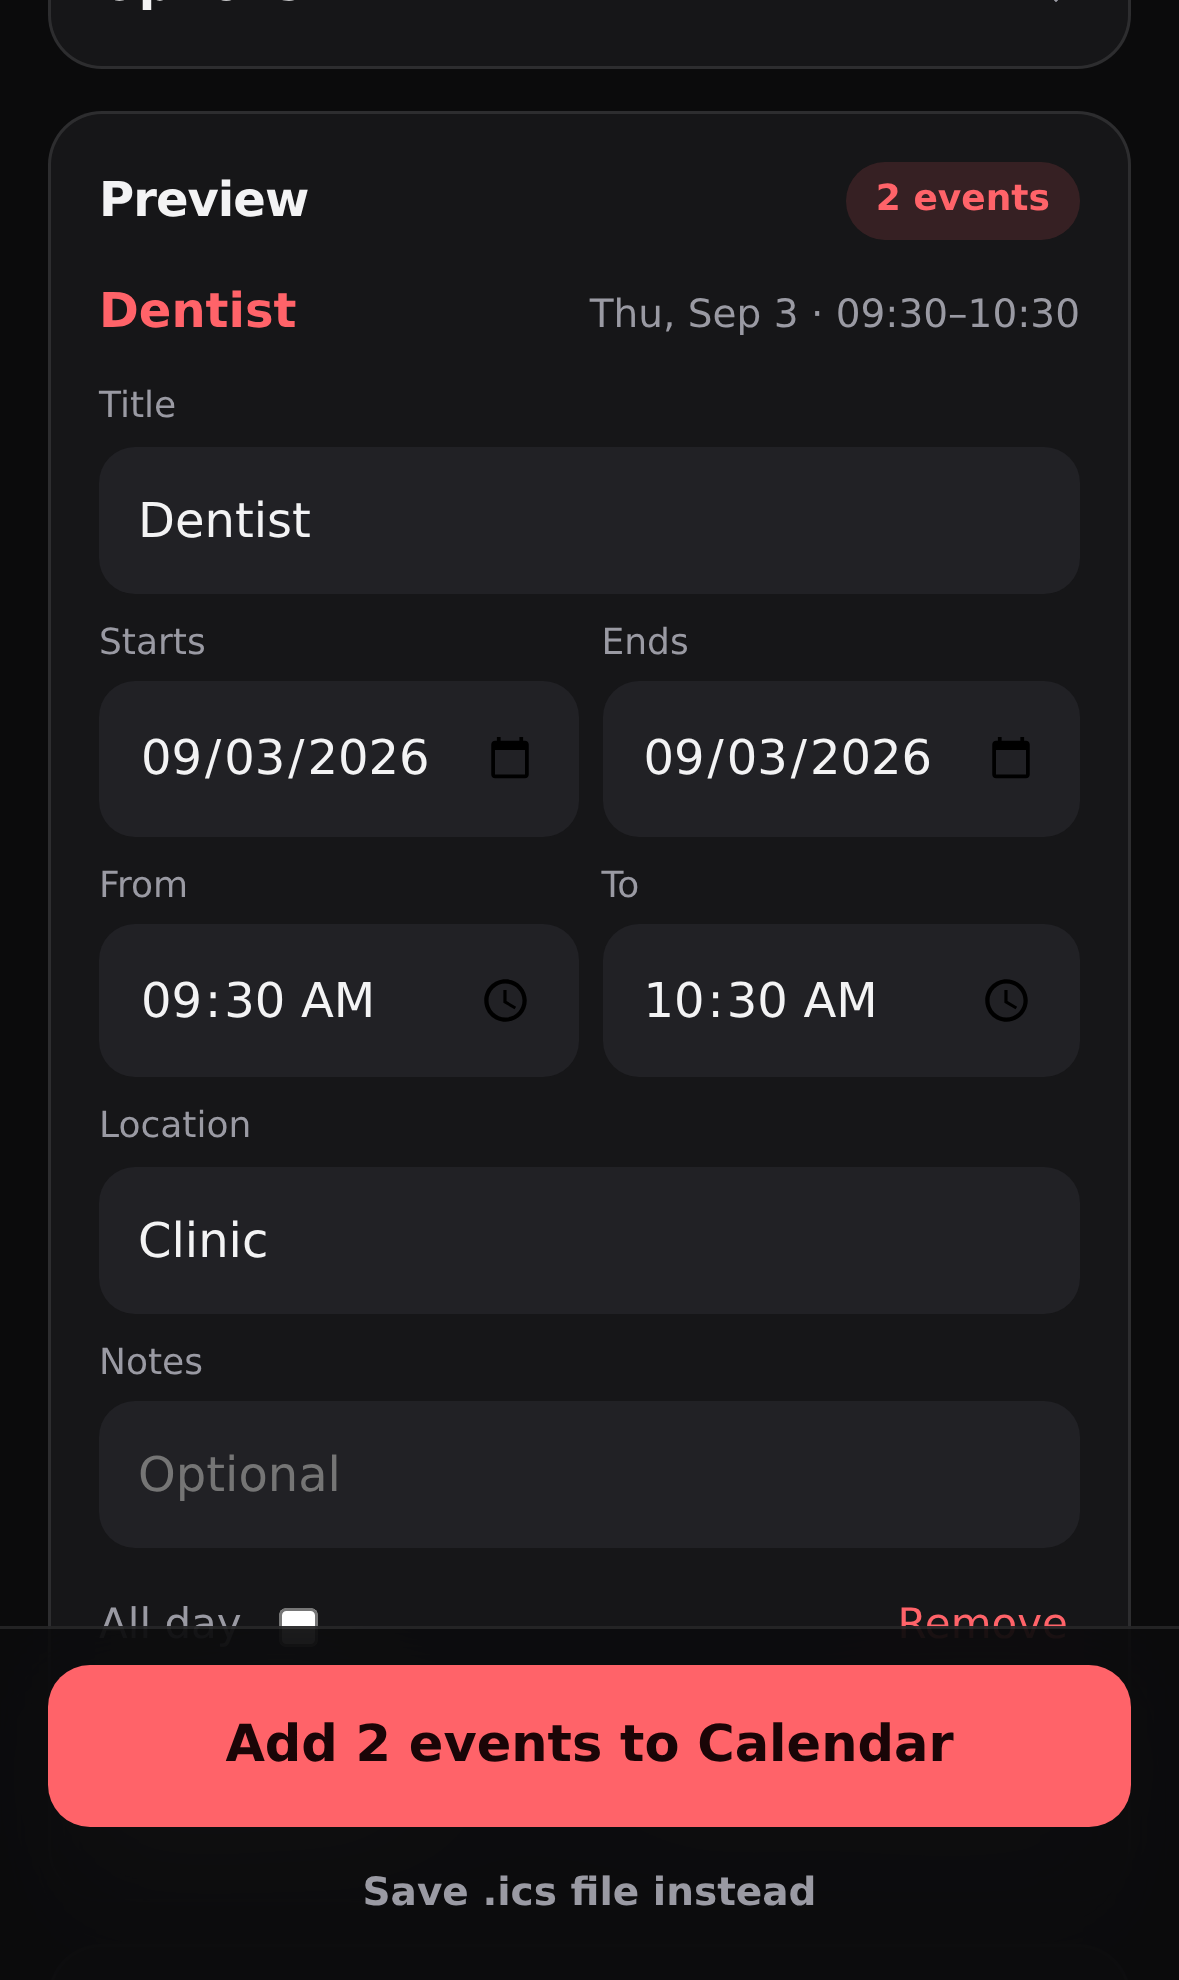
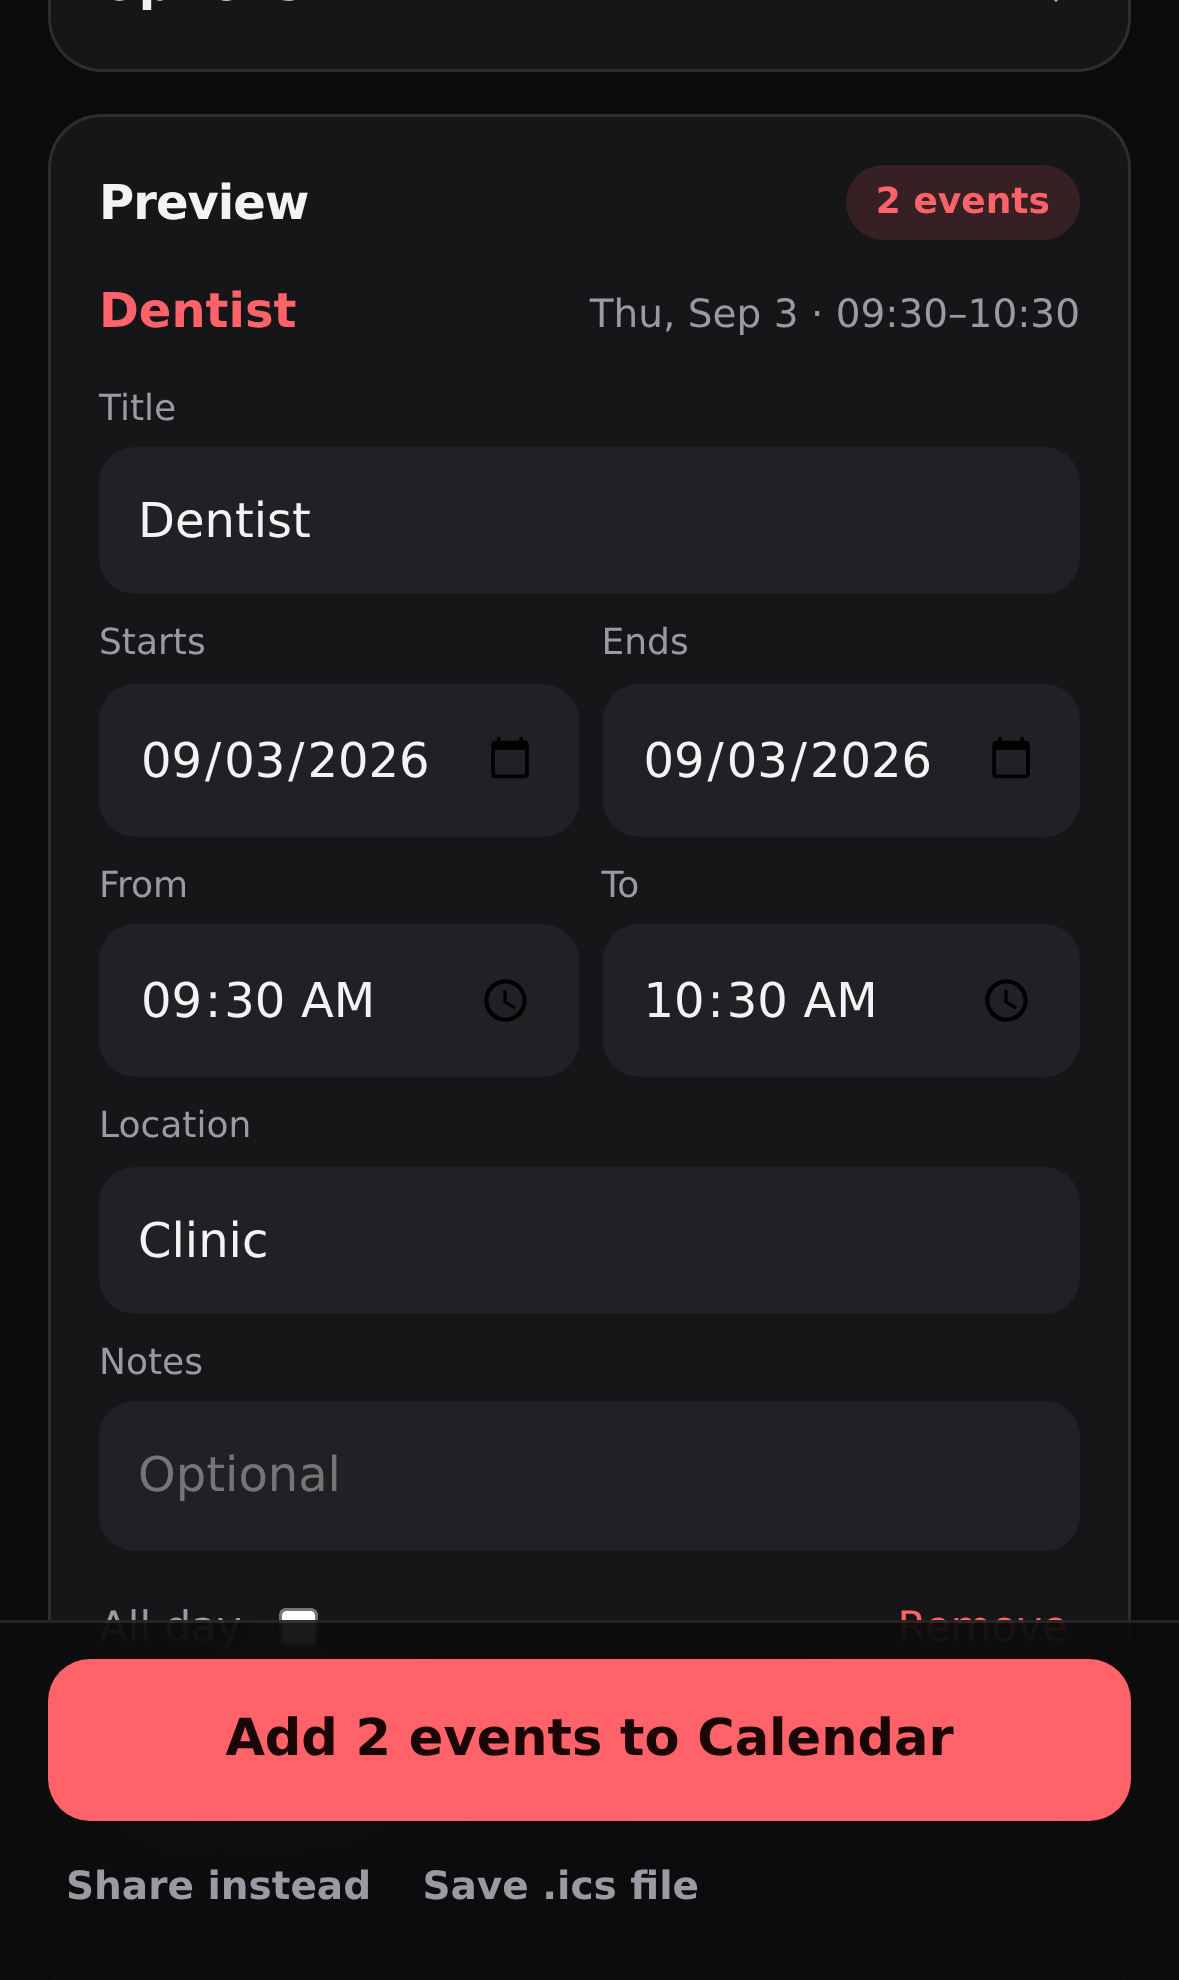
Hand the calendar file to iOS as a response, not a saved file
Tapping a saved .ics in Files only ever opens a preview — iOS offers no
import action there. What it does act on is a response whose
Content-Type is text/calendar, so the file now goes out that way:

- The page stages the current batch in an OUTBOX cache under a URL
  named after the chosen calendar, restaging whenever the preview or
  the calendar changes, with the writes queued so an overlapping
  staging cannot leave a stale batch behind.
- The service worker answers any .ics request from that cache with
  Content-Type: text/calendar.
- "Add to Calendar" is now an ordinary link to that URL, opening
  outside the installed app so Safari performs the hand-off. Being a
  link, it also cannot be caught by popup blocking.
- Share and Save move underneath as fallbacks, and a help section
  explains what each one does — including that a saved file is a dead
  end on iOS.
- The first load has no worker yet, so the button falls back to the
  share sheet until one is controlling the page.

METHOD:PUBLISH is dropped from the file: it marks a calendar feed, and
some importers treat it differently from a plain list of events.

Claude-Session: https://claude.ai/code/session_01HNhjKiH9bVPzuXmCti7oSX

diff --git a/assets/app.js b/assets/app.js
@@ -18,7 +18,7 @@ const el = {
   alarm: $('alarm'), rollForward: $('roll-forward'),
   previewCard: $('preview-card'), list: $('event-list'), count: $('event-count'),
   skipped: $('skipped'), skippedList: $('skipped-list'), empty: $('empty-state'),
-  add: $('add'), download: $('download'), version: $('version'),
+  add: $('add'), share: $('share'), download: $('download'), dockMore: $('dock-more'), version: $('version'),
   banner: $('update-banner'), reload: $('update-reload'), dismiss: $('update-dismiss'),
 };
 
@@ -133,9 +133,10 @@ function paint() {
   el.count.classList.toggle('good', total > 0);
   el.previewCard.hidden = total === 0 && state.skipped.length === 0;
   el.empty.hidden = !el.previewCard.hidden;
-  el.add.disabled = total === 0;
   el.add.textContent = total ? `Add ${total} ${total === 1 ? 'event' : 'events'} to Calendar` : 'Add to Calendar';
-  el.download.hidden = total === 0;
+  el.add.setAttribute('aria-disabled', String(total === 0));
+  el.dockMore.hidden = total === 0;
+  stageCalendar();
 
   el.list.replaceChildren(...state.events.map(renderEvent));
 
@@ -245,11 +246,45 @@ function renderCalendars() {
 
 /* ---------------------------------------------------------------- delivery */
 
+const OUTBOX = 'batch-calendar-outbox';
+
 function icsForCurrentEvents() {
   return buildICS(state.events, {
     calendarName: state.calendar,
     alarmMinutes: state.options.alarm === '' ? null : Number(state.options.alarm),
   });
+}
+
+/*
+ * iOS only opens a calendar file that arrives as a text/calendar *response* —
+ * a saved .ics just sits in Files with no way in. So the file is written into
+ * a cache the service worker serves from, and the button is a plain link to
+ * it: tapping it hands the events to Calendar with no popup blocking.
+ */
+let staging = Promise.resolve();
+function stageCalendar() {
+  // Runs on every render, so keep the writes in a queue: two overlapping
+  // stagings could otherwise leave a stale batch behind for the link to serve.
+  staging = staging.then(writeStagedCalendar).catch(() => {});
+  return staging;
+}
+
+async function writeStagedCalendar() {
+  el.add.removeAttribute('data-staged');
+  if (!state.events.length || !navigator.serviceWorker?.controller) return;
+
+  const url = new URL(`./${icsFilename(state.calendar)}?v=${Date.now()}`, location.href);
+  try {
+    const cache = await caches.open(OUTBOX);
+    for (const stale of await cache.keys()) await cache.delete(stale);
+    await cache.put(url, new Response(icsForCurrentEvents(), {
+      headers: { 'Content-Type': 'text/calendar; charset=utf-8', 'Cache-Control': 'no-store' },
+    }));
+    el.add.href = url.href;
+    el.add.setAttribute('data-staged', 'true');
+  } catch {
+    // Storage refused (private mode, no quota) — the fallbacks below still work.
+  }
 }
 
 function saveFile(text, filename) {
@@ -263,7 +298,8 @@ function saveFile(text, filename) {
   setTimeout(() => URL.revokeObjectURL(url), 10000);
 }
 
-async function addToCalendar() {
+/** The share sheet, where Calendar is one of the destinations. */
+async function shareCalendar() {
   if (!state.events.length) return;
   const text = icsForCurrentEvents();
   const filename = icsFilename(state.calendar);
@@ -272,14 +308,13 @@ async function addToCalendar() {
   if (navigator.canShare?.({ files: [file] })) {
     try {
       await navigator.share({ files: [file], title: `${state.events.length} events` });
-      toast('Choose Calendar, then Add All');
       return;
     } catch (error) {
       if (error?.name === 'AbortError') return;   // the user closed the share sheet
     }
   }
   saveFile(text, filename);
-  toast('Saved — open the file to add the events');
+  toast('Saved to Files — open it from there');
 }
 
 /* ------------------------------------------------------------------- toast */
@@ -346,6 +381,7 @@ el.calendarForm.addEventListener('submit', (event) => {
   el.calendarNew.blur();
   save();
   renderCalendars();
+  stageCalendar();
 });
 
 const optionInputs = [
@@ -363,10 +399,18 @@ for (const [node, key, read] of optionInputs) {
   });
 }
 
-el.add.addEventListener('click', addToCalendar);
+el.add.addEventListener('click', (event) => {
+  if (!state.events.length) return event.preventDefault();
+  if (el.add.hasAttribute('data-staged')) return toast('Tap Add All in Calendar');
+  // No service worker yet (first load, or it failed) — hand over the file instead.
+  event.preventDefault();
+  shareCalendar();
+});
+
+el.share.addEventListener('click', shareCalendar);
 el.download.addEventListener('click', () => {
   saveFile(icsForCurrentEvents(), icsFilename(state.calendar));
-  toast('Saved to Files');
+  toast('Saved to Files — Add to Calendar opens it properly');
 });
 
 /* --------------------------------------------------- service worker updates */
@@ -409,6 +453,7 @@ function registerServiceWorker() {
   }).catch(() => { /* offline, or opened straight from the file system */ });
 
   el.dismiss.addEventListener('click', () => { el.banner.hidden = true; });
+  navigator.serviceWorker.ready.then(stageCalendar);
   showVersion();
 }
 

diff --git a/index.html b/index.html
@@ -53,8 +53,8 @@
         autocomplete="off" autocapitalize="words" enterkeyhint="done">
       <button type="submit" class="btn btn-quiet">Add</button>
     </form>
-    <p class="note">The file is labelled with this name. When it opens, iPhone shows a calendar picker — pick the
-      matching calendar there, or set a default in <strong>Settings › Apps › Calendar › Default Calendar</strong>.</p>
+    <p class="note">The file is labelled with this name. iPhone asks which calendar to file the events under when it
+      opens them, or uses <strong>Settings › Apps › Calendar › Default Calendar</strong>.</p>
   </section>
 
   <details class="card card-details" id="options">
@@ -118,6 +118,25 @@
   </section>
 
   <details class="card card-details">
+    <summary><h2>If the events do not open</h2><span class="chev" aria-hidden="true"></span></summary>
+    <div class="options-grid">
+      <p class="note" style="margin-top:0">
+        <strong>Add to Calendar</strong> opens the events in Safari, which hands them straight to Calendar —
+        tap <strong>Add All</strong>. This is the route to use on iPhone.
+      </p>
+      <p class="note">
+        <strong>Share instead</strong> passes the file to the share sheet, where you can pick Calendar or send the
+        list to someone else.
+      </p>
+      <p class="note">
+        <strong>Save .ics file</strong> only puts the file in Files. Tapping it there shows a preview with no way to
+        import — that is iOS, not the file. To use a saved file, long-press it in Files and choose
+        <strong>Share</strong>, or just use <strong>Add to Calendar</strong> instead.
+      </p>
+    </div>
+  </details>
+
+  <details class="card card-details">
     <summary><h2>What it understands</h2><span class="chev" aria-hidden="true"></span></summary>
     <ul class="formats">
       <li><code>2026-09-03</code>, <code>10/26</code>, <code>3.9.2026</code>, <code>Sep 3</code>, <code>3 September 2026</code></li>
@@ -135,8 +154,11 @@
 </main>
 
 <div class="dock">
-  <button type="button" id="add" class="btn btn-primary" disabled>Add to Calendar</button>
-  <button type="button" id="download" class="btn btn-quiet btn-small" hidden>Save .ics file instead</button>
+  <a id="add" class="btn btn-primary" href="#" target="_blank" rel="noopener" aria-disabled="true">Add to Calendar</a>
+  <div class="dock-row" id="dock-more" hidden>
+    <button type="button" id="share" class="btn btn-quiet btn-small">Share instead</button>
+    <button type="button" id="download" class="btn btn-quiet btn-small">Save .ics file</button>
+  </div>
 </div>
 
 <footer class="footer">

diff --git a/sw.js b/sw.js
@@ -1,13 +1,19 @@
 /*
- * sw.js — offline shell plus the update channel.
+ * sw.js — offline shell, the update channel, and the calendar hand-off.
  *
  * Bump VERSION on every deploy: a new version installs alongside the old one,
  * tells the page a build is waiting, and only takes over when the user taps
  * Update (or every tab has closed).
+ *
+ * The hand-off matters on iOS: a saved .ics only ever opens in a Files
+ * preview, but a URL answered with `Content-Type: text/calendar` is handed
+ * to Calendar. The page stages the file in OUTBOX and opens its URL; the
+ * fetch handler below answers with it.
  */
 
-const VERSION = '1.1.0';
+const VERSION = '1.2.0';
 const CACHE = `batch-calendar-${VERSION}`;
+const OUTBOX = 'batch-calendar-outbox';
 
 const SHELL = [
   './',
@@ -30,7 +36,9 @@ self.addEventListener('install', (event) => {
 self.addEventListener('activate', (event) => {
   event.waitUntil((async () => {
     const names = await caches.keys();
-    await Promise.all(names.filter((name) => name !== CACHE).map((name) => caches.delete(name)));
+    await Promise.all(names
+      .filter((name) => name !== CACHE && name !== OUTBOX)
+      .map((name) => caches.delete(name)));
     await self.clients.claim();
   })());
 });
@@ -49,6 +57,12 @@ self.addEventListener('fetch', (event) => {
   if (request.method !== 'GET' || new URL(request.url).origin !== self.location.origin) return;
 
   event.respondWith((async () => {
+    // The calendar file the page staged for this tap, served as text/calendar.
+    if (new URL(request.url).pathname.endsWith('.ics')) {
+      const staged = await (await caches.open(OUTBOX)).match(request, { ignoreSearch: true });
+      if (staged) return staged;
+    }
+
     const cache = await caches.open(CACHE);
     const cached = await cache.match(request, { ignoreSearch: true });
 

diff --git a/assets/styles.css b/assets/styles.css
@@ -166,7 +166,11 @@ select.field { background-image: none; }
   font-weight: 600;
   border-radius: 14px;
 }
-.btn-small { width: 100%; margin-top: 8px; font-size: 13px; background: transparent; color: var(--muted); padding: 6px; }
+.btn-small { font-size: 13px; background: transparent; color: var(--muted); padding: 8px 6px; }
+a.btn { display: block; text-align: center; text-decoration: none; }
+a.btn[aria-disabled="true"] { opacity: 0.4; }
+.dock-row { display: flex; gap: 8px; margin-top: 6px; }
+.dock-row .btn { flex: 1; }
 
 /* ------------------------------------------------------------------- chips */
 

diff --git a/assets/ics.js b/assets/ics.js
@@ -110,7 +110,6 @@ export function buildICS(events, { calendarName = 'Batch Calendar', alarmMinutes
     'VERSION:2.0',
     'PRODID:-//Batch Calendar//Batch Add for iPhone//EN',
     'CALSCALE:GREGORIAN',
-    'METHOD:PUBLISH',
     `X-WR-CALNAME:${escapeText(calendarName)}`,
   ];
   for (const event of events) lines.push(...buildEvent(event, { alarmMinutes, stamp }));

diff --git a/README.md b/README.md
@@ -23,11 +23,17 @@ works offline once it has been added to the Home Screen.
 3. **Check the preview** — tap any event to fix the title, dates, times, location
    or notes, or to remove it. Your corrections stick even if you keep typing in
    the paste box.
-4. **Add to Calendar** — iPhone opens the share sheet. Choose **Calendar**, then
-   **Add All**, and pick the calendar to file them under.
+4. **Add to Calendar** — the events open in Safari, which hands them to
+   Calendar. Tap **Add All** and pick the calendar to file them under.
 
 If iPhone drops events into the wrong calendar, set the one you want under
 **Settings › Apps › Calendar › Default Calendar**, or add one batch per calendar.
+
+Two fallbacks sit under the button. **Share instead** passes the file to the
+share sheet — useful for sending the list to someone else. **Save .ics file**
+only writes it to Files; tapping it there opens a preview with no way to import,
+which is an iOS limitation rather than a problem with the file, so use **Add to
+Calendar** unless you actually want the file.
 
 ### Lines it understands
 
@@ -72,9 +78,20 @@ attach an alert to every event in the batch.
 ## How events reach the calendar
 
 iOS gives web apps no direct access to Calendar, so the app builds a standard
-[iCalendar](https://datatracker.ietf.org/doc/html/rfc5545) (`.ics`) file and hands
-it to the share sheet — the same file format Calendar imports from Mail. Times are
-written as local ("floating") times, so 3pm stays 3pm wherever you are.
+[iCalendar](https://datatracker.ietf.org/doc/html/rfc5545) (`.ics`) file — the same
+format Calendar imports from Mail. Times are written as local ("floating") times,
+so 3pm stays 3pm wherever you are.
+
+Getting that file into Calendar is the fiddly part. iOS will not import a *saved*
+file: tap an `.ics` in Files and you get a preview with no import action. What it
+does open is a *response* whose `Content-Type` is `text/calendar`. So the app
+writes the file into a cache the service worker serves from, and the button is an
+ordinary link to that URL — the worker answers with the right content type and iOS
+takes it from there. The link opens outside the installed app so Safari, rather
+than the web app's own view, handles the file.
+
+That also keeps the button working with no popup blocking: the file is staged
+whenever the preview changes, so the tap is just a link.
 
 ## Updates
 
@@ -104,7 +121,7 @@ npm run icons                  # re-render the PNG icons from icons/icon.svg
 | `assets/parser.js` | turns each pasted line into one or more events |
 | `assets/ics.js` | builds the `.ics` file |
 | `assets/app.js` | state, rendering, sharing, update banner |
-| `sw.js` | offline cache and update channel |
+| `sw.js` | offline cache, update channel, and serving the staged `.ics` |
 
 ## Publishing
 
